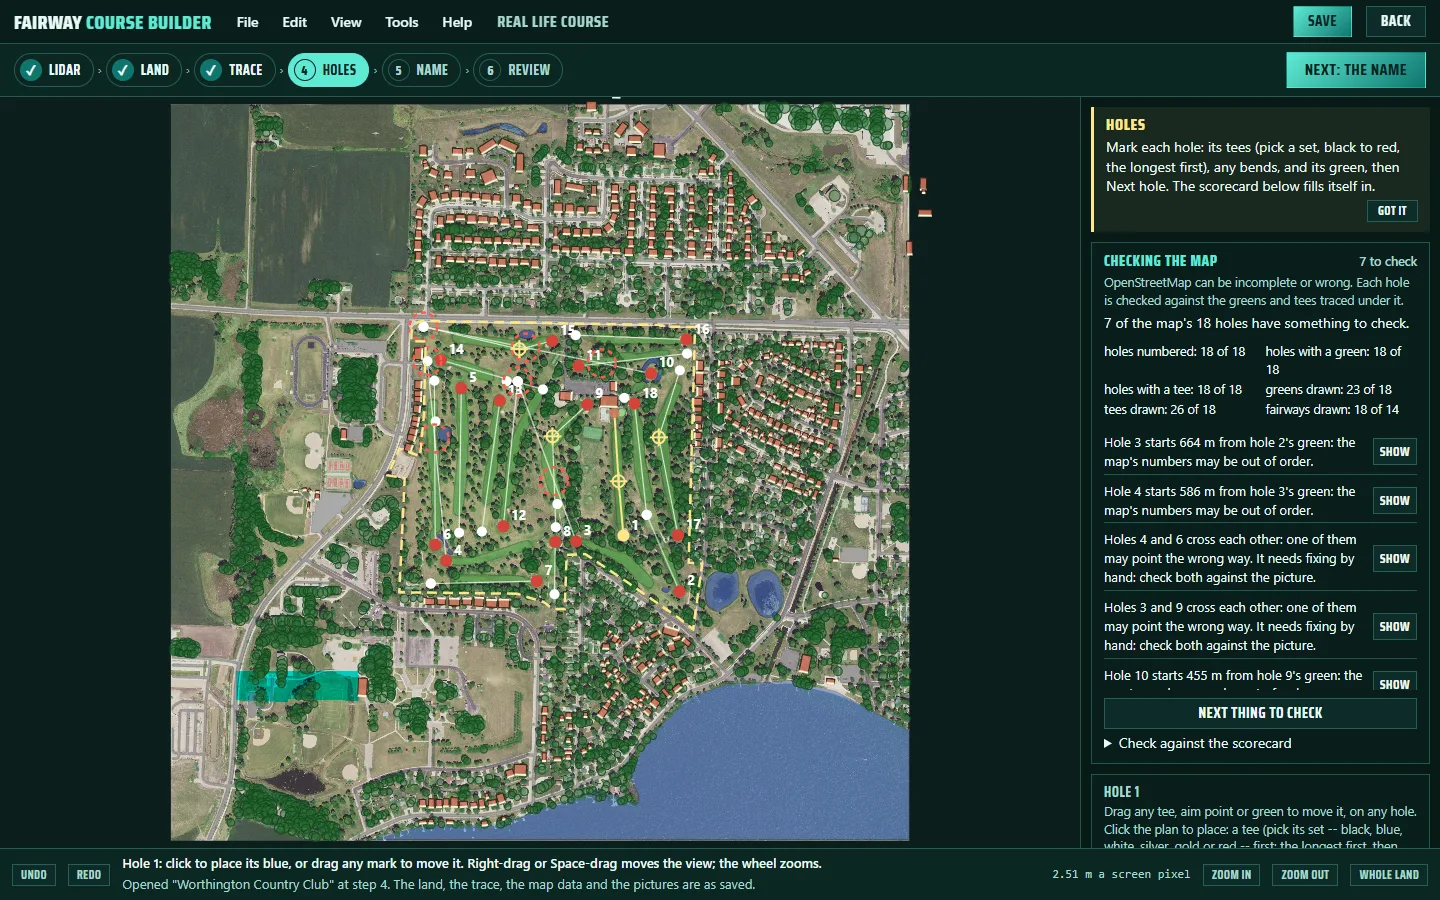
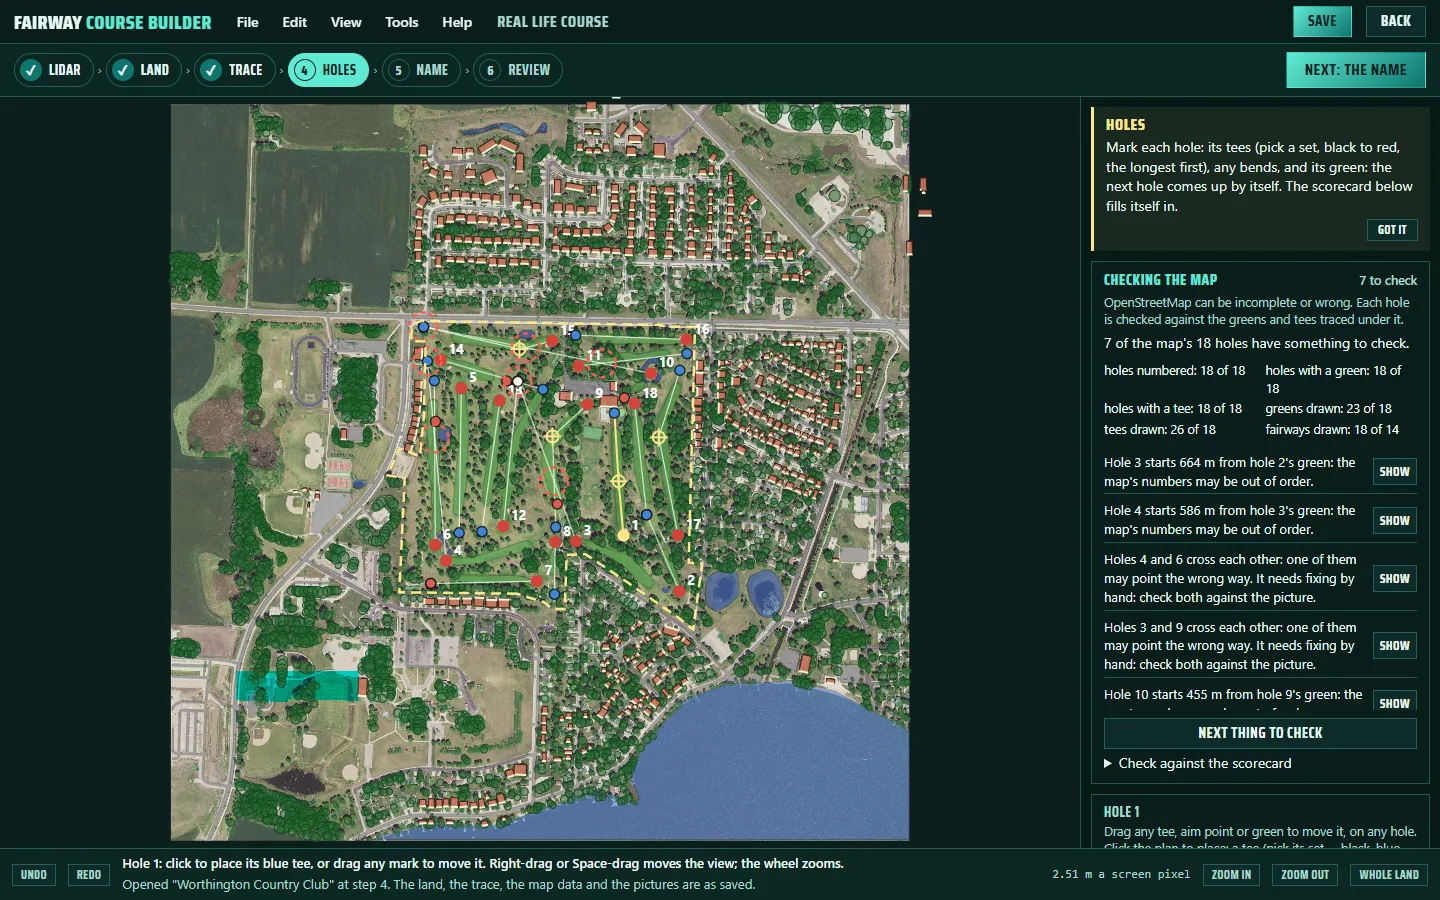
Builder: tees in their set's colour; a green brings up the next hole
The owner, 22 November 2026: "the tees are all showing the same color when
i try to place them in the hole section. seems that the flow through placing
holes isnt working right either."

The plan coloured a tee from the three sets before the six (back, middle,
front); a set is a colour now, so every dot took whatever colour the canvas
held last. Each tee is drawn in its set's colour, ringed dark. After a
green, the mark in hand went back to the first set on the same hole, so
the next click moved that hole's tee; now a green on a hole with a tee
brings up the next hole still to mark (hole-marks.js nextToMark), its tee
in hand. The status line names a tee by its set ("blue tee"), the step's
tip no longer says Next hole, and the review's yards are the longest set's.

Run: tests/builder-marks.test.mjs; builder journeys builder-door-2 (now
marks nine holes with no Next hole and reads a blue and a red tee's colour
off the plan), builder-door-2-osm, builder-build-for-me. The Worthington
journey (local) is updated but not run. Guide pictures retaken. Seen in
the journey's and the guide's pictures; not yet seen by the owner.

diff --git a/src/builder/door-real.js b/src/builder/door-real.js
@@ -35,7 +35,7 @@ import {fromEditor} from './round-trip.js';
 import {preview} from './preview.js';
 import {coverOptions, coverByKey, COVER_RANGE, treeChoices} from './cover.js';
 import {cornersOf, anchorHit} from './layer-ops.js';
-import {markNear, moveMark, pressOn} from './hole-marks.js';
+import {markNear, moveMark, pressOn, nextToMark} from './hole-marks.js';
 import {fileName} from '../course-file.js';
 import {openSource, formOf} from '../lidar/formats.js';
 import {readGeoTiffRgb} from '../lidar/geotiff.js';
@@ -90,7 +90,11 @@ const IMAGE = /\.(png|jpe?g|webp|gif|bmp)$/i, WORLD = /\.(pgw|jgw|tfw|wld|j2w|bp
 // 80 elsewhere (PLACED: by eye against the generated courses' edges).
 const outsideGround = bio => bio.fallen?.kind ?? bio.landform?.kinds?.floor ?? (['native', 'heather'].includes(bio.landform?.kinds?.a) ? bio.landform.kinds.a : null);
 const outsideTrees = key => BIOMES[key].fallen ? 150 : ['links', 'desert', 'florida'].includes(regionOf(key)) ? 15 : 80;
+// The mark in hand, in words: a tee by its set's colour (tees.js), the
+// three old set names a draft from before the six may hold, an aim point, the
+// green.
 const MARK_NAME = {back: 'back tee', middle: 'middle tee', front: 'front tee', aim: 'aim point', green: 'green'};
+const markName = m => MARK_NAME[m] ?? (TEE_COLOURS[m] ? `${m} tee` : m);
 // THE TRACE STEP'S TOOLS, in the palette's order, with their keys (the
 // builder-ux goal): [key, name, shortcut, the palette's group].
 const TOOL_LIST = [['move', 'Move the view', 'H', 0], ['select', 'Select shape', 'V', 0],
@@ -340,7 +344,7 @@ export function open(draft = null) {
   const k = LABEL(st.kind).toLowerCase(), r = st.size, view = 'Right-drag or Space-drag moves the view; the wheel zooms.', corners = n => `${n} node${n === 1 ? '' : 's'}: click to add more${n >= 3 ? ', click the first node to close' : ''}; Enter fills, Backspace takes the last off, Esc drops it.`;
   let t = '';
   if (st.step === 0) t = st.map ? `Drag a box round the course on the map, then Build it for me or Build it myself. ${view}` : st.preview ? `Drag a box round the property on the relief. ${view}` : '';
-  else if (st.step === 3) t = `Hole ${st.hole + 1}: click to place its ${MARK_NAME[st.mark] ?? st.mark}, or drag any mark to move it. ${view}`;
+  else if (st.step === 3) t = `Hole ${st.hole + 1}: click to place its ${markName(st.mark)}, or drag any mark to move it. ${view}`;
   else if (st.step === 2 && !st.model && st.tool !== 'align') t = st.land ? 'Fetch OpenStreetMap, or press Auto trace or Manual trace, to start.' : '';
   else if (st.step === 2) {
    const all = st.kind === 'rough';
@@ -429,7 +433,12 @@ export function open(draft = null) {
    if (!h) return;
    const on = n === st.hole, line = holeLine(h);
    if (line.length >= 2) { ctx.strokeStyle = on ? '#fde68a' : 'rgba(255,255,255,.75)'; ctx.lineWidth = (on ? 2 : 1.2) * px; ctx.beginPath(); line.forEach(([x, z], q) => { const [sx, sy] = p.toScreen(x, z); q ? ctx.lineTo(sx, sy) : ctx.moveTo(sx, sy); }); ctx.stroke(); }
-   for (const t of h.tees) { const [x, y] = p.toScreen(t.x, t.z); ctx.fillStyle = {back: '#4385d5', middle: '#f4f2e7', front: '#d75c52'}[t.set]; ctx.beginPath(); ctx.arc(x, y, 5 * px, 0, 7); ctx.fill(); }
+   // Each tee in its set's colour (tees.js), ringed dark so white and silver
+   // show on a pale picture. Until 22 November 2026 this still asked the three
+   // sets from before the six (back, middle, front), so every tee took
+   // whatever colour was drawn last (the owner: "the tees are all showing the
+   // same color").
+   for (const t of h.tees) { const [x, y] = p.toScreen(t.x, t.z); ctx.fillStyle = TEE_COLOURS[colourOf(t.set)] ?? TEE_COLOURS.blue; ctx.strokeStyle = 'rgba(0,0,0,.7)'; ctx.lineWidth = 1.5 * px; ctx.beginPath(); ctx.arc(x, y, 5 * px, 0, 7); ctx.fill(); ctx.stroke(); }
    for (const a of h.aims) { const [x, y] = p.toScreen(a.x, a.z); ctx.strokeStyle = '#fde68a'; ctx.lineWidth = 2 * px; ctx.beginPath(); ctx.arc(x, y, 6 * px, 0, 7); ctx.moveTo(x - 9 * px, y); ctx.lineTo(x + 9 * px, y); ctx.moveTo(x, y - 9 * px); ctx.lineTo(x, y + 9 * px); ctx.stroke(); }
    if (h.green) { const [x, y] = p.toScreen(h.green.x, h.green.z); ctx.fillStyle = on ? '#fde68a' : '#d4443a'; ctx.beginPath(); ctx.arc(x, y, 6 * px, 0, 7); ctx.fill(); ctx.fillStyle = '#fff'; ctx.font = `bold ${13 * px}px system-ui`; ctx.fillText(String(n + 1), x + 8 * px, y - 6 * px); }
   });
@@ -813,7 +822,7 @@ export function open(draft = null) {
   "Find the course by name: the builder shows the aerial map round it. Drag a box round the course, then Build it for me -- every step done for you -- or Build it myself, picking the LIDAR and doing each step. Or open LIDAR files you have, and drag the box on the relief.",
   "Build the land: the ground's heights, the trees and the water, read from the survey. It takes from a few seconds to a minute.",
   "Draw the course over the aerial picture: lay OpenStreetMap's version if the club is mapped, then fix it with the tools on the left -- or draw it yourself.",
-  'Mark each hole: its tees (pick a set, black to red, the longest first), any bends, and its green, then Next hole. The scorecard below fills itself in.',
+  'Mark each hole: its tees (pick a set, black to red, the longest first), any bends, and its green: the next hole comes up by itself. The scorecard below fills itself in.',
   'Name the course, and credit the survey and the picture you used.',
   'Look the course over as it will play. Open it in the editor to shape it in 3D, or save it now.'];
  // FIRST-VISIT TIPS (item 13): each step's line is a tip until it is closed
@@ -2112,7 +2121,13 @@ export function open(draft = null) {
  }
  function markAt(p) {
   const h = st.holes[st.hole] ??= {tees: [], aims: [], green: null};
-  if (st.mark === 'green') { h.green = {x: p.x, z: p.z}; st.mark = firstSet(); }
+  if (st.mark === 'green') {
+   h.green = {x: p.x, z: p.z}; st.mark = firstSet();
+   // The hole has its tee and green: on to the next still to mark, its tee in
+   // hand (or its green, where the map gave it a tee already).
+   const next = h.tees.length ? nextToMark(st.holes, st.hole, st.holesN) : -1;
+   if (next >= 0) { const done = st.hole; st.hole = next; st.mark = st.holes[next]?.tees?.length ? 'green' : firstSet(); go(3); say(`Hole ${done + 1} marked. Hole ${next + 1}: click its ${markName(st.mark)}.`); return; }
+  }
   else if (st.mark === 'aim') h.aims.push({x: p.x, z: p.z});
   else {
    // A tee of one of the six sets (tees.js), longest first; the hole's first
@@ -2181,8 +2196,11 @@ export function open(draft = null) {
      d[k * 4] = c[0] * sh; d[k * 4 + 1] = c[1] * sh; d[k * 4 + 2] = c[2] * sh; d[k * 4 + 3] = 255;
     }
    });
-   const rows = w.holes.map(h => `${h.number}: par ${h.par}, ${Math.round(h.tees.blue?.yards ?? h.tees.white?.yards ?? 0)} yd`);
-   card.replaceChildren(el('small', {}, `${doc.holes.length} holes, par ${w.holes.reduce((a, h) => a + h.par, 0)}, ${Math.round(w.holes.reduce((a, h) => a + (h.tees.blue?.yards ?? 0), 0)).toLocaleString()} yards from the back; ${(doc.trees.length / 7).toLocaleString()} trees, ${doc.water.length} ponds.`), el('ul', {}, rows.map(r => el('li', {}, r))));
+   // From the course's longest set (black when it has one; it was always
+   // blue, from before the six sets).
+   const longest = sets()[0], backYd = h => h.tees[longest]?.yards ?? Object.values(h.tees)[0]?.yards ?? 0;
+   const rows = w.holes.map(h => `${h.number}: par ${h.par}, ${Math.round(backYd(h))} yd`);
+   card.replaceChildren(el('small', {}, `${doc.holes.length} holes, par ${w.holes.reduce((a, h) => a + h.par, 0)}, ${Math.round(w.holes.reduce((a, h) => a + backYd(h), 0)).toLocaleString()} yards from the ${longest} tees; ${(doc.trees.length / 7).toLocaleString()} trees, ${doc.water.length} ponds.`), el('ul', {}, rows.map(r => el('li', {}, r))));
    const issues = checkCourse(createEditor(doc));
    found.replaceChildren(...(issues.length ? issues.map(c => el('li', {style: c.at ? 'cursor:pointer' : '', onclick: () => c.at && plan.look(c.at.x, c.at.z, Math.max(plan.view.scale, 2))}, c.text)) : [el('li', {}, 'Nothing breaks a rule.')]));
    say(st.cameBack ?? 'The course as it will be built. Open it in the editor, or go back to change anything.'); st.cameBack = null;

diff --git a/src/builder/hole-marks.js b/src/builder/hole-marks.js
@@ -29,6 +29,15 @@ export function pressOn(holes, current, p, reach) {
  if (!g) return {act: 'place'};
  return {act: g.hole === current ? 'take' : 'wait', mark: g};
 }
+// THE HOLE TO MARK NEXT, once the hole in hand has its tee and green (the
+// owner, 22 November 2026: "the flow through placing holes isnt working
+// right"): the first after it, round to the start, still missing a tee or a
+// green -- or -1 when every one of the `n` holes has both. Until then a click
+// after placing a green moved that same hole's tee.
+export function nextToMark(holes, current, n) {
+ for (let k = 1; k < n; k++) { const q = (current + k) % n, h = holes[q]; if (!h?.tees?.length || !h.green) return q; }
+ return -1;
+}
 // The mark put at `p`. Its set and place in the list stay.
 export function moveMark(h, m, p) {
  if (m.kind === 'green') h.green = {...h.green, x: p.x, z: p.z};

diff --git a/docs/TESTING.md b/docs/TESTING.md
@@ -600,7 +600,7 @@ printing the close-up sheet's square, texel and redraw time
 | `builder-opens` | the builder opens offline on its three doors with its version line; a door opens and Back returns |
 | `builder-shaping` | a frozen nine opened from its file; forty raise dabs timed (the model and the view's redraw; fails over 33 ms a dab); one undo for the drag; saved, and the world the game builds from the file has the hill to the centimetre |
 | `builder-tools` | every editor tool by its button and the mouse (outline, pond, creek, bunker, plant and clear trees, a green moved, a bunker dug in the open and carried off by Move shape and put back by Undo), Undo, the checks and a test round reporting, saved; each change found in the file read back in Node |
-| `builder-door-2` | door 2 end to end in the owner's order (first Find the course: a place found, the map round it shown from a stand-in USGS tile cache, Build it for me and Build it myself waiting until a 1,200 x 900 m box is dragged round the place on it, then Build it myself: every source over the box searched -- the National Map stood in for -- its survey listed with both download buttons and Minnesota's own portal linked; then the trace step also: every layer listed water to rough with empty ones marked, the banner naming the brush, the smooth view drawn after a stroke, semi-rough extrapolated round the fairway, the landscape changed to a links for heather): a LIDAR survey made by the journey (LAS 1.2 with colour, a nine-hole parkland with a pond, bunkers and trees) brought in and the property boxed by a left drag; the land, started by Next: build the land alone (no second press); the place searched for and imagery fetched (both stood in for with `page.route` -- the journey's `t.allow` names those addresses, every other request still fails it), placed; the picture's opacity set, the LIDAR drawn on top as slope; the picture unlocked, dragged 6 m into line, nudged with the arrow keys (a quarter metre, a metre with Shift), locked, and a drag and an arrow after that move nothing; the wheel zooms and the right button drags the view; the auto trace, then a brush stroke, that bunker moved 12 m whole by Move shape (the banner naming it while dragged) and put back by Undo, a fairway painted over that bunker (the bunker stays: layers), the sand layer hidden (the view shows the fairway, the course keeps the bunker), an outline of heather, a tree zone and Undo; nine holes with an aim point; Save from step 4 (a stand-in save dialog: the first Save asks, the second and Ctrl+S write the same file, the bar names the draft), the course renamed and Save asking for a new file, the draft opened again from the start page back at step 5 with its sand, trees and holes; the name; the painted review (the bend in hole 1's line, the surfaces, the imagery's credit); the editor, which lists the same layers and hides one, draws its surfaces finer than its grid (from the outlines), and flies forward on W and down on Q; saved; the built game plays a tee shot on it; since amendment 16 also Ctrl+Shift+Z redoing a tree zone, Clear trees from tees and greens leaving no crown over a green, the scorecard (nine holes and a total, white as blue with one tee, no typed yards, a par and an index set and found in the course), in the editor only a links' own ground types, its sky and round trees, Tree height growing the trees taller and wider at once, Size a tree and This tree sizing one tree twice as tall and Undo putting it back, the view following a resized window, sand painted and a hill raised in 3D, Back to 2D (asking nothing) with both in the trace and the note saying so, and the plan filling its place, the editor again with both, and Close asking twice |
+| `builder-door-2` | door 2 end to end in the owner's order (first Find the course: a place found, the map round it shown from a stand-in USGS tile cache, Build it for me and Build it myself waiting until a 1,200 x 900 m box is dragged round the place on it, then Build it myself: every source over the box searched -- the National Map stood in for -- its survey listed with both download buttons and Minnesota's own portal linked; then the trace step also: every layer listed water to rough with empty ones marked, the banner naming the brush, the smooth view drawn after a stroke, semi-rough extrapolated round the fairway, the landscape changed to a links for heather): a LIDAR survey made by the journey (LAS 1.2 with colour, a nine-hole parkland with a pond, bunkers and trees) brought in and the property boxed by a left drag; the land, started by Next: build the land alone (no second press); the place searched for and imagery fetched (both stood in for with `page.route` -- the journey's `t.allow` names those addresses, every other request still fails it), placed; the picture's opacity set, the LIDAR drawn on top as slope; the picture unlocked, dragged 6 m into line, nudged with the arrow keys (a quarter metre, a metre with Shift), locked, and a drag and an arrow after that move nothing; the wheel zooms and the right button drags the view; the auto trace, then a brush stroke, that bunker moved 12 m whole by Move shape (the banner naming it while dragged) and put back by Undo, a fairway painted over that bunker (the bunker stays: layers), the sand layer hidden (the view shows the fairway, the course keeps the bunker), an outline of heather, a tree zone and Undo; nine holes with an aim point, each green bringing the next hole up with its blue tee in hand (no Next hole pressed; since 22 November 2026), and a blue and a red tee read off the plan in their own colours; Save from step 4 (a stand-in save dialog: the first Save asks, the second and Ctrl+S write the same file, the bar names the draft), the course renamed and Save asking for a new file, the draft opened again from the start page back at step 5 with its sand, trees and holes; the name; the painted review (the bend in hole 1's line, the surfaces, the imagery's credit); the editor, which lists the same layers and hides one, draws its surfaces finer than its grid (from the outlines), and flies forward on W and down on Q; saved; the built game plays a tee shot on it; since amendment 16 also Ctrl+Shift+Z redoing a tree zone, Clear trees from tees and greens leaving no crown over a green, the scorecard (nine holes and a total, white as blue with one tee, no typed yards, a par and an index set and found in the course), in the editor only a links' own ground types, its sky and round trees, Tree height growing the trees taller and wider at once, Size a tree and This tree sizing one tree twice as tall and Undo putting it back, the view following a resized window, sand painted and a hill raised in 3D, Back to 2D (asking nothing) with both in the trace and the note saying so, and the plan filling its place, the editor again with both, and Close asking twice |
 | `builder-door-2-worthington` | **local only** (registered when `FAIRWAY_LIDAR_TEST` names the owner's Worthington folder and bench/shots/lidar/ holds the NAIP tiles, the DEM, the OpenStreetMap extract and the card): door 2 through the page on the real tiles -- the property dragged, four pictures, eighteen holes clicked, traced, saved -- then the file measured by `tools/built-compare.mjs` (ground against USGS's DEM, fails over 5 cm at the median; outlines; lengths; a test round, fails if a hole sticks) and a tee shot played in the game; and the landscape suggested from where the survey lies -- Classic Parkland since the landscapes were pared to fifteen (Heartland before 8 November 2026), chosen unasked. Its holes are clicked where OpenStreetMap puts them, which the owner says is wrong for Worthington (many holes pointing the wrong way): the journey tests the clicking, not the map. The course file goes to the game as base64 (door-generate.mjs `playOneShot`): as an array of numbers it ran the harness out of memory |
 | `builder-lidar-folder` | (Back to the start asking twice) door 2's LIDAR folder (a stand-in folder in the page; the National Map, Hobu's Entwine index and USGS's Entwine copy stood in for with `page.route`): the place found as a button, every shown button with a tooltip, Download all tiles offered, the map shown (a stand-in USGS tile cache) and a 1.5 km box dragged round the place on it, Build it myself, the box and 150 m past it downloaded once and kept in the folder as its ZIP, the box the property on the relief (1,495-1,580 m a side in the survey's grid, turned about 1.8 degrees from north), its coverage drawn yellow, door 2 opened again and the square read from the folder with nothing asked of USGS, Load from the folder, its tick box keeping its size, listing it ticked |
 | `builder-door-2-osm` | door 2 from OpenStreetMap: first a ZIP of zLAS files, named in the file list with the converters and the map search, nothing read (22 November 2026); then the made-up survey inside a ZIP with a README, read through `readZipFile` and listed as *ZIP / file* with its points; the place searched for and OpenStreetMap fetched (both stood in for with `page.route`), its surfaces laid where it draws them, its nine numbered holes set with hole 1 on its green and the map's par kept, a second course at the club picked by the Course choice with its own hole 1 and picked back, its course boundary and a building (as a house) taken, whose trees three ways (the survey's with the map's one in the open, the map's only, the survey's only), the outside of the boundary filled keeping the map's pond and house there, undone, and filled removing them, its nine numbered holes set as markers, credited, the trees choice inside the steps' column; kept as drawn; reviewed; in the editor the house drawn, one refused on the fairway, one stood on the rough by the House tool and undone; saved, and the game plays a tee shot |

diff --git a/docs/COURSE_BUILDER.md b/docs/COURSE_BUILDER.md
@@ -1536,6 +1536,33 @@ the yards and the scorecard when it lands. In the 3D editor, **Drag markers** do
 the same for tees, bends and greens (14 pixels, PLACED), one undo a drag; door 2's
 step has no undo, and never had. Not seen on screen.
 
+### Tees in their colours, and the next hole after a green (22 November 2026)
+
+The owner: "the tees are all showing the same color when i try to place them
+in the hole section. seems that the flow through placing holes isnt working
+right either." Two faults, both from the six tee sets (10 November 2026):
+
+- **The colours.** The plan still coloured a tee from the three sets before
+  the six (back, middle, front). A tee's set is a colour now, which that list
+  did not know, so each dot took whatever colour the canvas last held: every
+  tee alike. Each is drawn in its set's colour (tees.js `TEE_COLOURS`), ringed
+  dark so white and silver show on a pale picture. The status line said
+  "click to place its blue"; it says "blue tee".
+- **The flow.** After a green the mark in hand went back to the first tee
+  set on the same hole, so the next click -- meant for the next hole's tee --
+  moved this hole's tee. Now a green placed on a hole that has a tee brings up
+  the next hole still missing a tee or a green (hole-marks.js `nextToMark`,
+  round to the start), its tee in hand, or its green where the map gave it a
+  tee already; the status line names it. Next hole, Previous hole and the
+  hole list still go anywhere. Rejected: keeping the old stop-and-press-Next
+  (it is what the owner tripped on) and moving on after a tee as well (a hole
+  often has several tee sets to place before its green).
+
+The review's yards "from the back" were always blue's; they are the course's
+longest set's now. The builder-door-2 journey marks its nine holes with no
+Next hole and reads a blue and a red tee's colour off the plan. Seen in the
+journey's picture; not yet seen by the owner.
+
 ### The wait shows itself (5 November 2026)
 
 The owner: "when getting data from open street map, we need to indicate processing

diff --git a/docs/BUILDER_GUIDE.md b/docs/BUILDER_GUIDE.md
@@ -115,8 +115,10 @@ hand -- drag its green or tee onto the right one, with the photograph to go by.
 (The builder used to guess the right green, and was wrong too often.)
 
 **Tee sets.** A course has up to six, longest first: **black, blue, white,
-silver, gold, red**. On the holes step, pick a set and click where its tee is;
-the scorecard shows a column for each set the course has. From OpenStreetMap
+silver, gold, red**. On the holes step, pick a set and click where its tee is
+(each tee shows on the plan in its set's colour), then click the green: the
+next hole still to mark comes up by itself, its tee in hand. The scorecard
+shows a column for each set the course has. From OpenStreetMap
 the sets come from the map's tags where it has them, and otherwise from how
 many tee boxes the holes have, the farthest box the longest set. In Fairway a
 golfer whose set the course lacks plays the nearest one it has.

diff --git a/docs/PLAYING.md b/docs/PLAYING.md
@@ -864,7 +864,10 @@ changes, newest first, each with **Back to here**.
      Silver, Gold** or **Red**, each with its colour -- and left-click its
      tee (the longest first; then any others, picking each set first), any
      **Aim points** where it bends, in order from the tee, and its
-     **Green**; then **Next hole**. 9 or 18. The game draws
+     **Green**. Placing a green brings up the next hole still to mark,
+     its tee in hand (Next hole and Previous hole, and clicking a hole in
+     the list, go anywhere). Each tee is drawn in its set's colour.
+     9 or 18. The game draws
      each hole's line through its aim points in turn -- two make a double
      dogleg -- measures its yards along that line, and points the tee shot
      at the first; an aim point no farther on than the one before (or at the
